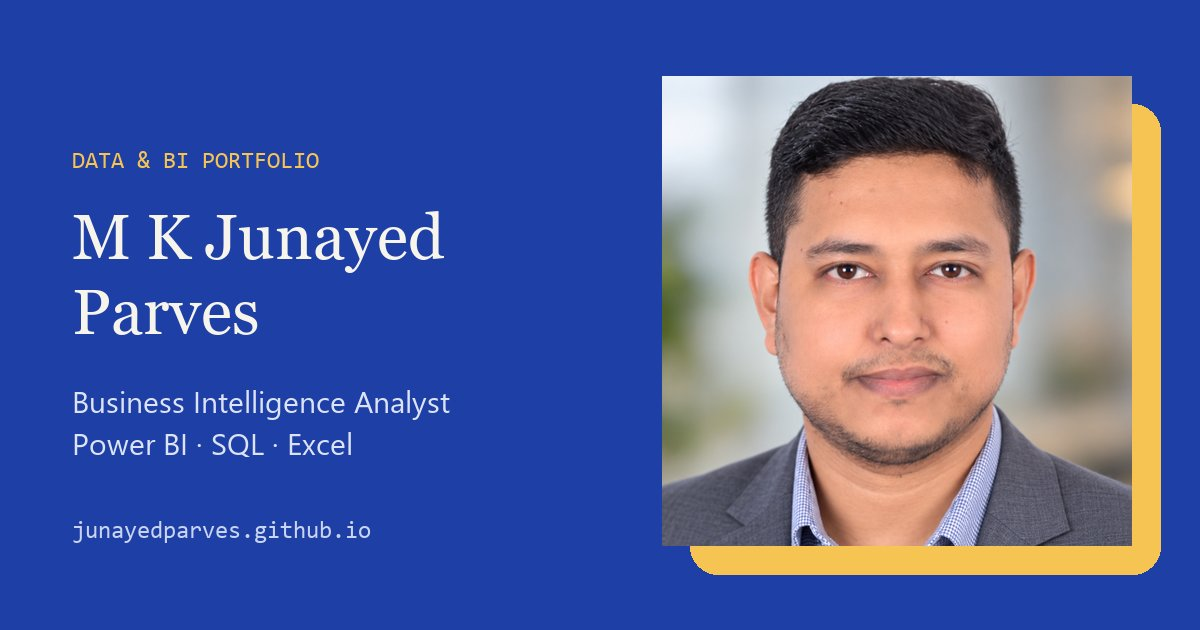
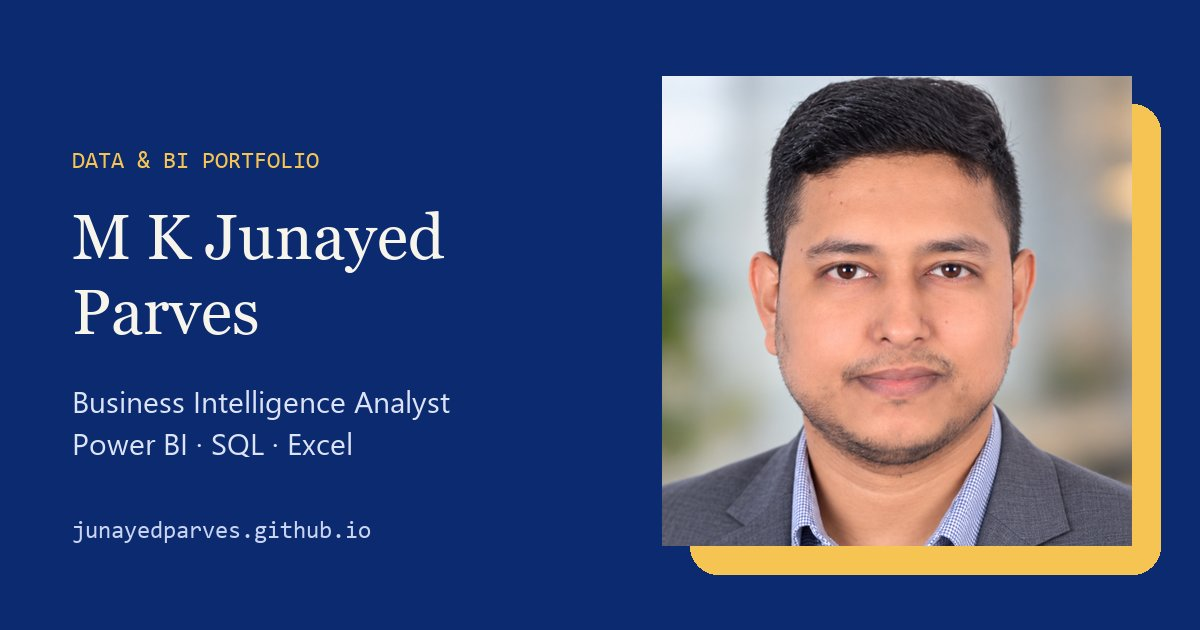
Deep blue colour scheme and updated podcast section
- New deep sapphire palette with a soft glow behind the hero
- 8 podcasts with official cover art stored in the repo
- Optional podcasts.category column shown as a gold label
- Share image regenerated in the new colours

diff --git a/css/style.css b/css/style.css
@@ -13,17 +13,18 @@
 
 /* ---------- 1. VARIABLES ---------- */
 :root {
-  --royal: #1D3FA6;        /* main background */
-  --navy: #16317F;         /* alternating section background */
-  --footer: #10275F;       /* footer background */
-  --ink: #10204F;          /* dark text on gold/cream */
+  --royal: #0B2A6F;        /* main background (deep sapphire blue) */
+  --navy: #081F55;         /* alternating section background (darker) */
+  --footer: #05163D;       /* footer background (darkest) */
+  --ink: #0A1A40;          /* dark text on gold/cream */
   --gold: #F6C453;         /* accent: buttons, labels, highlights */
   --gold-hover: #FFE09A;
   --cream: #F7F4EC;        /* light cards and main text */
   --text-soft: #DCE3F7;    /* body copy on blue */
   --text-muted: #C9D3F2;   /* secondary text on blue */
   --card-text: #3A4670;    /* secondary text on cream cards */
-  --placeholder: #2A4DB8;  /* image placeholder blue */
+  --placeholder: #1B3F99;  /* image placeholder blue */
+  --glow: rgba(66, 118, 255, 0.28); /* soft light-blue glow behind the hero */
 
   --card-bg: rgba(255, 255, 255, 0.07);
   --border: rgba(255, 255, 255, 0.16);
@@ -109,7 +110,7 @@ h1, h2, h3, p, ul, dl, dd { margin: 0; }
 .btn-cream   { background: var(--cream); color: var(--ink); }
 .btn-cream:hover { background: #fff; color: var(--ink); }
 .btn-ink     { background: var(--ink);   color: var(--cream); }
-.btn-ink:hover { background: #0a1535; color: var(--cream); }
+.btn-ink:hover { background: #041030; color: var(--cream); }
 .btn-small   { padding: 12px 20px; font-size: 15px; }
 .btn[disabled] { opacity: .6; cursor: wait; transform: none; }
 
@@ -190,7 +191,7 @@ h1, h2, h3, p, ul, dl, dd { margin: 0; }
   position: sticky;
   top: 0;
   z-index: 50;
-  background: rgba(29, 63, 166, 0.94);
+  background: rgba(11, 42, 111, 0.92);
   backdrop-filter: blur(10px);
   border-bottom: 1px solid rgba(255, 255, 255, 0.14);
 }
@@ -314,7 +315,11 @@ h1, h2, h3, p, ul, dl, dd { margin: 0; }
 .split .section-head-text { align-self: start; }
 
 /* ---------- 6. ABOUT ---------- */
-.section-about { padding: 88px 0 96px; }
+.section-about {
+  padding: 88px 0 96px;
+  /* a soft blue glow behind the photo makes the deep blue feel richer */
+  background: radial-gradient(900px 560px at 82% 30%, var(--glow), transparent 65%), var(--section-bg);
+}
 
 .about-grid {
   display: grid;
@@ -580,6 +585,13 @@ h1, h2, h3, p, ul, dl, dd { margin: 0; }
 }
 .podcast-cover img { width: 100%; height: 100%; object-fit: cover; }
 .podcast-info { display: flex; flex-direction: column; gap: 8px; min-width: 0; }
+.podcast-category {
+  font-family: var(--font-mono);
+  font-size: 12px;
+  letter-spacing: 0.08em;
+  text-transform: uppercase;
+  color: var(--gold);
+}
 .podcast-name { font-size: 20px; font-weight: 600; line-height: 1.3; }
 .podcast-host { font-size: 14px; color: var(--text-muted); }
 .podcast-why { font-size: 15px; line-height: 1.55; color: var(--text-soft); }

diff --git a/js/script.js b/js/script.js
@@ -518,6 +518,7 @@
       return '<li class="podcast">' +
         '<div class="podcast-cover">' + imageHtml(p.cover_url, { alt: "", placeholder: initialsOf(p.name), initials: true }) + "</div>" +
         '<div class="podcast-info">' +
+          (p.category ? '<span class="podcast-category">' + esc(p.category) + "</span>" : "") +
           '<h3 class="podcast-name">' + esc(p.name) + "</h3>" +
           (p.host ? '<span class="podcast-host">Hosted by ' + esc(p.host) + "</span>" : "") +
           (p.why ? '<p class="podcast-why">' + esc(p.why) + "</p>" : "") +

diff --git a/404.html b/404.html
@@ -6,7 +6,7 @@
   <title>Page not found</title>
   <meta name="robots" content="noindex">
   <link rel="icon" href="/favicon.svg" type="image/svg+xml">
-  <meta name="theme-color" content="#1D3FA6">
+  <meta name="theme-color" content="#0B2A6F">
   <link rel="preconnect" href="https://fonts.googleapis.com">
   <link rel="preconnect" href="https://fonts.gstatic.com" crossorigin>
   <link rel="stylesheet" href="https://fonts.googleapis.com/css2?family=DM+Serif+Display&family=IBM+Plex+Mono:wght@400;500&family=IBM+Plex+Sans:wght@400;500;600&display=swap">

diff --git a/index.html b/index.html
@@ -20,7 +20,7 @@
   <!-- SEO:END -->
 
   <link rel="icon" href="favicon.svg" type="image/svg+xml">
-  <meta name="theme-color" content="#1D3FA6">
+  <meta name="theme-color" content="#0B2A6F">
 
   <!-- Fonts: DM Serif Display (headings), IBM Plex Sans (body), IBM Plex Mono (labels) -->
   <link rel="preconnect" href="https://fonts.googleapis.com">

diff --git a/README.md b/README.md
@@ -557,7 +557,7 @@ Every tab except `profile`: **`order`** = position (lower first). **`show`** = `
 | `education` | order, type, title, institution, years, detail, show | `type` = `degree` (card) or `certification` (chip) |
 | `projects` | order, title, category, description, image_url, link_url, link_label, show | `category` = Power BI, Web App, Tableau or GitHub (must match exactly). Filter tabs appear only for categories in use |
 | `books` | order, title, author, cover_url, rating, review, show | `rating` = 1 to 5 |
-| `podcasts` | order, name, host, cover_url, why, link_url, show | |
+| `podcasts` | order, name, host, cover_url, why, link_url, category, show | `category` (optional) shows as a small gold label, e.g. "Data Visualization & Storytelling" |
 | `following` | order, name, role_org, avatar_url, platform, link_url, show | `platform` = any label, e.g. LinkedIn, YouTube, Blog |
 
 **Adding a column** doesn't break anything; the site simply ignores it.

diff --git a/CHANGELOG.md b/CHANGELOG.md
@@ -13,7 +13,13 @@ This project uses [Semantic Versioning](https://semver.org/):
 
 ## [Unreleased]
 
-- _Add changes here as you work. Move them under a new version when you release._
+### Changed
+- New deep sapphire blue colour scheme (`#0B2A6F` / `#081F55`, footer `#05163D`)
+  with a soft blue glow behind the hero photo. Share image updated to match.
+
+### Added
+- Optional `category` column in the `podcasts` tab, shown as a small gold label.
+- Podcast list: 8 shows with official cover art stored in `assets/images/podcasts/`.
 
 ## [1.0.0] — 2026-09-30
 
